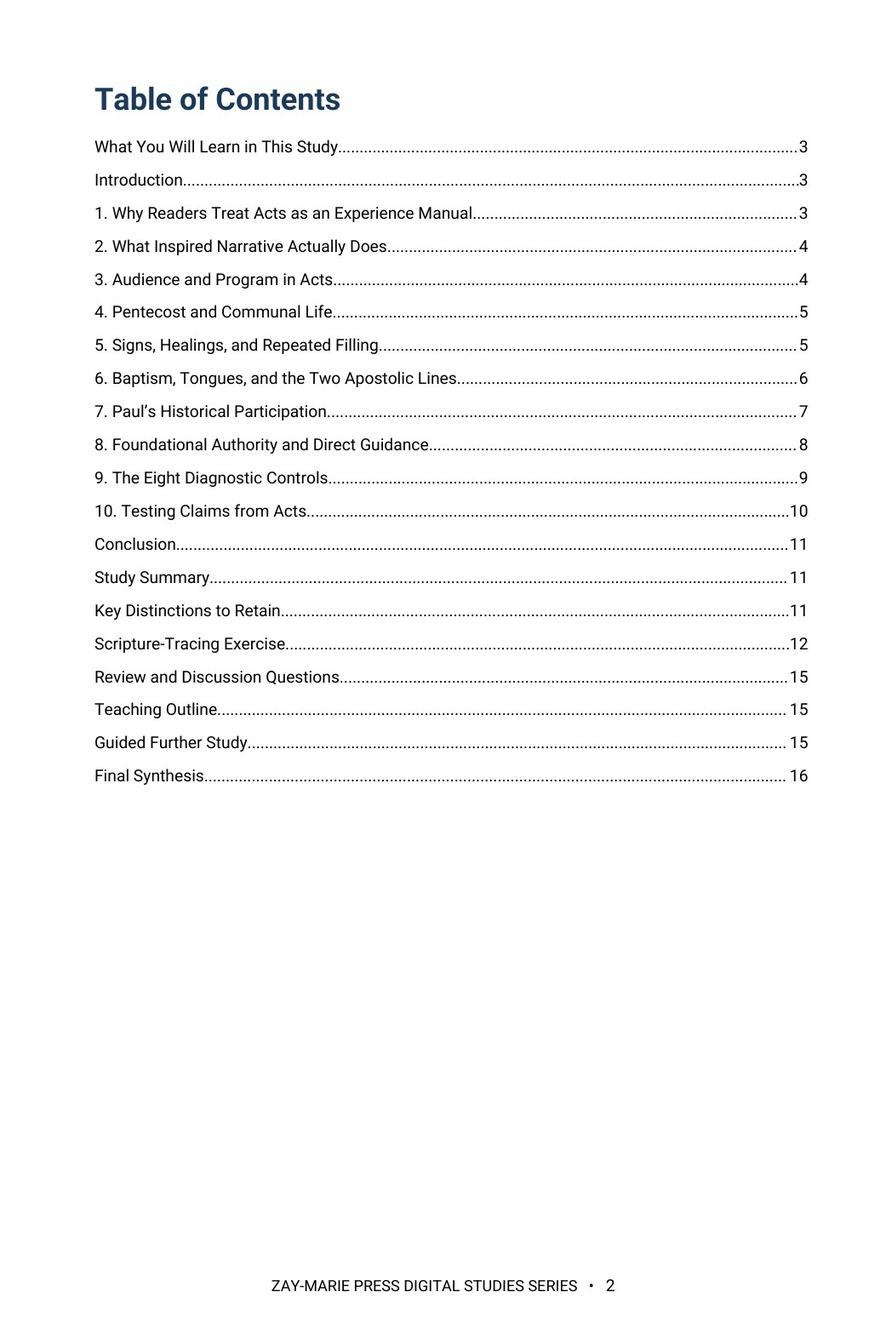
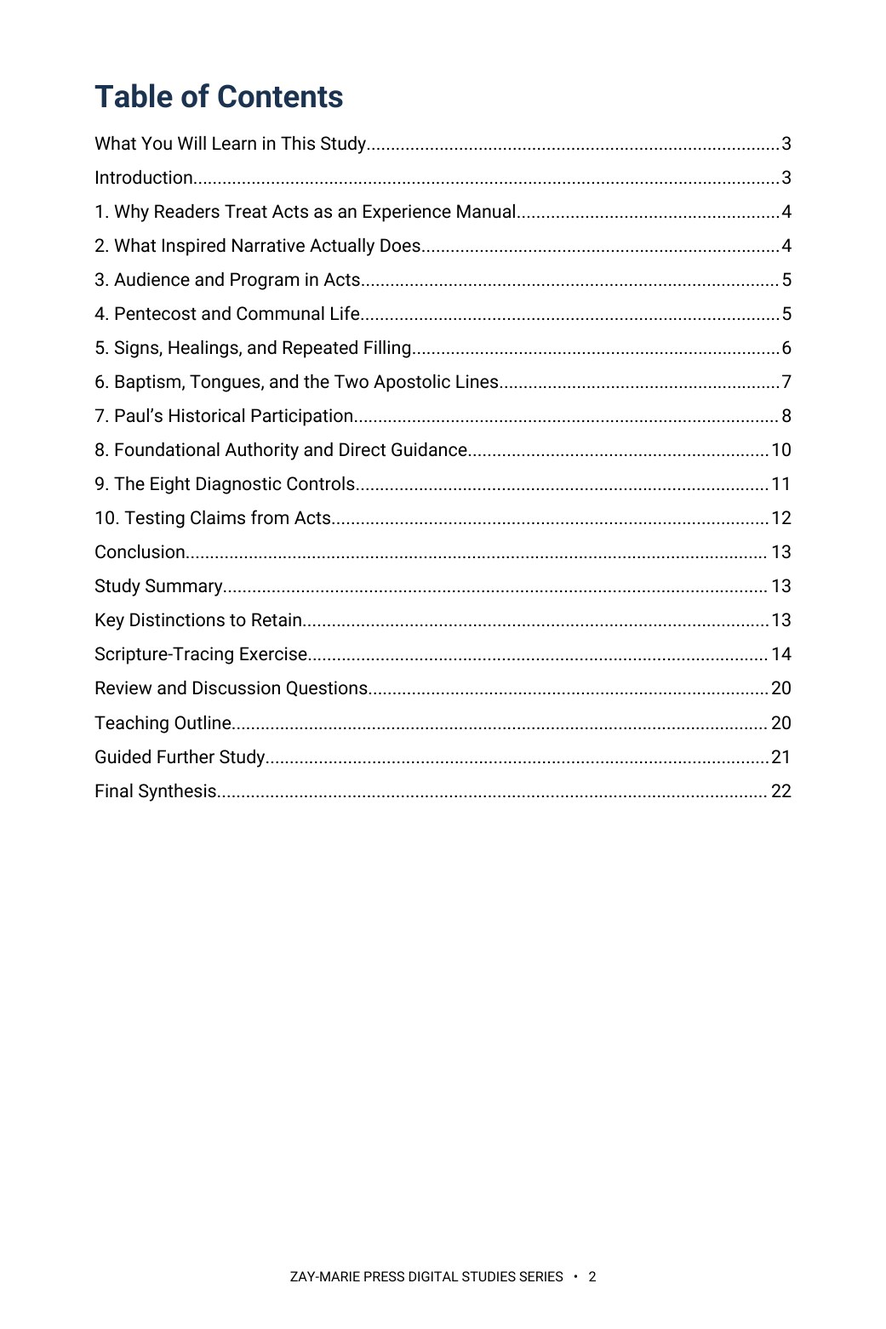
Study 38: page count 22, rebuilt preview pages and trackers for Roboto 10 pt build on current page
Claude-Session: https://claude.ai/code/session_01HC7bs9KYP2scp4hCL6DkTp

diff --git a/study-38-why-acts-is-not-a-universal-experience-manual.html b/study-38-why-acts-is-not-a-universal-experience-manual.html
@@ -2,13 +2,13 @@
 <html lang="en"><head><meta charset="utf-8"><meta name="viewport" content="width=device-width,initial-scale=1"><title>Why Acts Is Not a Universal Experience Manual | Zay-Marie Press</title><meta name="description" content="Read Acts with attention to audience, apostolic authority, and the governing doctrine for the Body of Christ. Preview Study 38 from Zay-Marie Press."><link rel="stylesheet" href="styles.css?v=20260921-4"><link rel="icon" type="image/png" href="assets/zay-marie-press-favicon.png"><style>
 .study-detail-page{background:#fff;color:#252525}.detail-hero{background:linear-gradient(135deg,#f8f5ec,#e3ece2);padding:58px 0}.detail-hero-grid{display:grid;grid-template-columns:minmax(250px,.72fr) minmax(0,1.28fr);gap:58px;align-items:center}.detail-cover{max-width:390px;margin:auto}.detail-cover img{display:block;width:100%;height:auto;box-shadow:0 14px 36px rgba(8,45,69,.18)}.detail-hero h1{font-size:clamp(2.7rem,5vw,4.7rem);line-height:1.02;margin:8px 0 10px;color:#143823}.detail-subtitle{font-family:Georgia,serif;font-size:1.35rem;font-weight:700;color:#082d45;margin:0 0 7px}.detail-kicker{font-family:Georgia,serif;font-style:italic;font-size:1.05rem;color:#4a4a44;margin:0 0 22px}.detail-copy{font-size:1.08rem;line-height:1.65;max-width:760px}.detail-buyline{display:flex;align-items:center;gap:18px;flex-wrap:wrap;margin-top:25px}.detail-price{font-family:Georgia,serif;font-size:2rem;font-weight:700;color:#143823}.detail-format,.preview-card .page-no{font-family:Arial,sans-serif;font-size:.76rem;font-weight:700;letter-spacing:.1em;text-transform:uppercase;color:#176b3a}.detail-button{display:inline-block;background:#176b3a;color:#fff;padding:13px 22px;font-family:Arial,sans-serif;font-size:.8rem;font-weight:700;letter-spacing:.07em;text-transform:uppercase}.detail-button.pending{opacity:.72;cursor:default}.detail-section{padding:66px 0}.detail-section.soft{background:#f6f7f2}.detail-section.cream{background:#faf8f2}.detail-section h2{color:#143823;margin:6px 0 18px;font-size:clamp(2rem,3.4vw,3rem)}.detail-section .lead{max-width:920px;font-size:1.1rem;line-height:1.62}.study-distinction{max-width:920px;margin-top:28px;margin-bottom:28px;padding:26px 28px;background:#fff;border:1px solid #d8d1bf;border-left:4px solid #b8871c}.study-distinction h3{margin:0 0 10px;color:#143823}.study-distinction p{margin:0 0 14px;line-height:1.62}.study-distinction a{font-family:Arial,sans-serif;font-weight:700;color:#176b3a;text-decoration:none}.study-points{display:grid;grid-template-columns:repeat(3,1fr);gap:18px;margin-top:28px;margin-bottom:28px}.study-point,.scripture-card,.preview-card,.include-item{background:#fff;border:1px solid var(--line);text-align:left}.study-point{border-top:3px solid #176b3a;padding:22px}.study-point h3{color:#143823;margin:0 0 8px;font-size:1.2rem}.study-point p,.scripture-card p,.preview-card p,.include-item p{margin:0;line-height:1.55}.scripture-grid{display:grid;grid-template-columns:repeat(4,1fr);gap:14px;margin-top:24px;margin-bottom:24px}.scripture-card{padding:22px 20px;color:#143823}.scripture-card h3{margin:0 0 9px;font-family:Georgia,serif;font-size:1rem;line-height:1.35}.scripture-card p{font-size:.94rem;color:#45453f}.excerpt{max-width:900px;margin:28px auto;border-left:4px solid #b8871c;padding:10px 0 10px 28px}.excerpt blockquote{font-family:Georgia,serif;font-size:clamp(1.45rem,2.5vw,2rem);line-height:1.45;color:#143823;margin:0 0 16px}.excerpt p{line-height:1.6;margin:0}.preview-grid{display:grid;grid-template-columns:repeat(2,1fr);gap:20px;margin-top:28px;margin-bottom:28px}.preview-card{padding:18px;min-height:210px;box-shadow:0 7px 20px rgba(20,40,25,.05)}.preview-image-link{display:block;margin:0 0 18px}.preview-image-link img{display:block;width:100%;height:auto;border:1px solid #d8d1bf;box-shadow:0 8px 22px rgba(20,40,25,.1);transition:transform .18s ease,box-shadow .18s ease}.preview-image-link:hover img{transform:translateY(-2px);box-shadow:0 11px 28px rgba(20,40,25,.16)}.preview-card h3{color:#143823;margin:8px 0 10px}.preview-instruction{margin:10px 0 0;font-family:Arial,sans-serif;font-size:.78rem;letter-spacing:.04em;color:#5b5b55}.includes-grid{display:grid;grid-template-columns:repeat(4,1fr);gap:14px;margin-top:26px}.include-item{padding:22px 20px;color:#143823}.include-item h3{margin:0 0 9px;font-family:Arial,sans-serif;font-size:.86rem;line-height:1.35;letter-spacing:.02em}.include-item p{font-size:.94rem;color:#45453f}.final-buy{background:#082d45;color:#fff;border-top:4px solid #b8871c;padding:42px 48px;display:grid;grid-template-columns:1fr auto;gap:36px;align-items:center}.final-buy .eyebrow,.final-buy h2,.final-buy .detail-price{color:#fff}.final-buy h2{margin:7px 0 6px}.final-buy p{margin:0}.final-offer{text-align:center}.back-link{display:inline-block;margin-top:18px;color:#143823;font-family:Arial,sans-serif;font-weight:700;text-decoration:none}.preview-lightbox{position:fixed;inset:0;z-index:10000;display:none;align-items:flex-start;justify-content:center;background:rgba(8,22,16,.88);padding:24px;overflow:auto}.preview-lightbox.open{display:flex}.preview-lightbox img{display:block;width:auto;height:auto;max-width:none;box-shadow:0 18px 55px rgba(0,0,0,.4);background:#fff}.preview-lightbox-close{position:fixed;top:18px;right:24px;z-index:10001;width:46px;height:46px;border:1px solid rgba(255,255,255,.65);border-radius:50%;background:rgba(0,0,0,.55);color:#fff;font:32px/1 Arial,sans-serif;cursor:pointer}@media(max-width:900px){.detail-hero-grid{grid-template-columns:1fr;gap:34px}.detail-cover{max-width:330px}.study-points{grid-template-columns:repeat(2,1fr)}.scripture-grid,.includes-grid{grid-template-columns:repeat(2,1fr)}.preview-grid,.final-buy{grid-template-columns:1fr}.final-offer{text-align:left}}@media(max-width:560px){.detail-hero{padding:42px 0}.detail-section{padding:50px 0}.study-points,.scripture-grid,.includes-grid{grid-template-columns:1fr}.final-buy{padding:32px 24px}.detail-buyline{align-items:flex-start;flex-direction:column;gap:8px}.preview-lightbox{padding:58px 10px 24px}.preview-lightbox img{width:100%;max-width:100%;height:auto}}</style></head><body class="study-detail-page">
 <header class="site-header"><div class="wrap nav"><a class="logo" href="index.html" aria-label="Zay-Marie Press home"><img src="assets/zay-marie-press-logo-hq.png" alt="Zay-Marie Press" width="420" height="238"></a><button class="menu-toggle" type="button" aria-expanded="false" aria-controls="primary-nav">MENU</button><nav aria-label="Primary navigation" class="primary-nav" id="primary-nav"><a href="index.html">HOME</a><a href="books.html">BOOKS</a><a href="series.html">SERIES</a><a class="active" aria-current="page" href="digital-studies.html">DIGITAL STUDIES</a><a href="biblical-hermeneutics-course.html">COURSE</a><a href="about.html">ABOUT</a><a href="resources.html">RESOURCES</a><a href="contact.html">CONTACT</a></nav></div></header><main>
-<section class="detail-hero"><div class="wrap detail-hero-grid"><div class="detail-cover"><picture><source srcset="assets/study-38-cover.webp" type="image/webp"><img src="assets/study-38-cover.jpg" alt="Why Acts Is Not a Universal Experience Manual cover"></picture></div><div><div class="eyebrow">STUDY 38 · DIGITAL STUDY</div><h1>Why Acts Is Not a Universal Experience Manual</h1><p class="detail-subtitle">Narrative Events, Apostolic Authority, and Present Governing Doctrine</p><p class="detail-kicker">A method for reading inspired history without turning every event into a command</p><p class="detail-copy">Acts records real events under divine direction. Yet the occurrence of a sign, a communal practice, or an apostolic action does not by itself require every believer to repeat it.</p><p class="detail-copy">Study the audience, commission, stated purpose, and programmatic setting of the event. Then test present obligations against the governing instruction given to the Body of Christ through Paul.</p><div class="detail-buyline"><span class="detail-price">$5.99</span><span class="detail-format">Digital PDF · 16 Pages</span><span class="detail-button pending" aria-disabled="true">Checkout Coming Soon</span></div></div></div></section>
+<section class="detail-hero"><div class="wrap detail-hero-grid"><div class="detail-cover"><picture><source srcset="assets/study-38-cover.webp" type="image/webp"><img src="assets/study-38-cover.jpg" alt="Why Acts Is Not a Universal Experience Manual cover"></picture></div><div><div class="eyebrow">STUDY 38 · DIGITAL STUDY</div><h1>Why Acts Is Not a Universal Experience Manual</h1><p class="detail-subtitle">Narrative Events, Apostolic Authority, and Present Governing Doctrine</p><p class="detail-kicker">A method for reading inspired history without turning every event into a command</p><p class="detail-copy">Acts records real events under divine direction. Yet the occurrence of a sign, a communal practice, or an apostolic action does not by itself require every believer to repeat it.</p><p class="detail-copy">Study the audience, commission, stated purpose, and programmatic setting of the event. Then test present obligations against the governing instruction given to the Body of Christ through Paul.</p><div class="detail-buyline"><span class="detail-price">$5.99</span><span class="detail-format">Digital PDF · 22 Pages</span><span class="detail-button pending" aria-disabled="true">Checkout Coming Soon</span></div></div></div></section>
 <section class="detail-section"><div class="wrap"><div class="eyebrow">ABOUT THIS STUDY</div><h2>When Does a Narrated Action Govern Us?</h2><p class="lead">Luke’s accounts are inspired and instructive, but their authority must be read according to what they say. Acts includes Israel’s continuing prophetic ministry and the Mystery revealed through Paul, with both present from Acts 9 through Acts 28.</p><p class="lead">This study gives a practical way to honor the history while deciding whether an action establishes a current obligation for the Body.</p><p class="lead">This is not a study of Peter’s Pentecost commands themselves, which Study 20 reads in their own audience, nor of Mark 16’s sign commission, which Study 25 examines on its own terms, nor of the apostles’ renewed Spirit filling, which Study 34 distinguishes from Pentecost. Its task is broader: to supply the actual test for deciding when any Acts-era event creates a present obligation for the Body, a test each of those studies then applies to its own passage.</p><div class="study-distinction"><h3>How These Studies Relate</h3><p>Study 38 asks when an action narrated in Acts is instructive history and when it establishes a present obligation for the Body.</p><p><a href="study-20-understanding-acts-2-38.html">Study 20 — Understanding Acts 2:38</a> Apply the test to Peter’s commands at Pentecost, where audience and prophetic context control how Acts 2:38 is read.</p><p><a href="study-25-the-signs-that-followed.html">Study 25 — The Signs That Followed</a> Apply it to Mark 16’s sign commission and its recorded effects, so a narrated sign is not assumed to bind every believer.</p><p><a href="study-34-filled-again.html">Study 34 — Filled Again</a> Apply it to the apostles’ renewed Spirit filling, distinguishing what Acts reports from a required sequence for all readers.</p><p><a href="study-39-the-churchs-relationship-to-israels-scriptures.html">Study 39 — The Church’s Relationship to Israel’s Scriptures</a> Carry the same audience and assignment questions into Israel’s earlier Scriptures to move responsibly from original meaning to present application.</p><p class="connection-guide-link"><a href="study-connections.html#study-38">Explore the full connection guide for Study 38 →</a></p></div></div></section>
 <section class="detail-section soft"><div class="wrap"><div class="eyebrow">WHAT YOU’LL STUDY</div><h2>Read Each Event in Its Own Setting</h2><div class="study-points"><div class="study-point"><h3>Description and Command</h3><p>Ask what Luke records and whether the passage gives its audience a repeatable instruction.</p></div><div class="study-point"><h3>Acts Overlap</h3><p>Follow Israel’s continuing Prophecy Program alongside the Mystery Program begun with Paul in Acts 9.</p></div><div class="study-point"><h3>Audience and Commission</h3><p>Keep Peter’s commission to Israel and Paul’s commission to the Body distinct even when their ministries appear in the same book.</p></div><div class="study-point"><h3>Signs and the Spirit</h3><p>Test tongues, healing, repeated filling, and Spirit reception against each event’s stated purpose and context.</p></div><div class="study-point"><h3>Paul’s Participation</h3><p>Read Paul’s visits, vows, and temple actions as history before assigning a present obligation.</p></div><div class="study-point"><h3>Present Doctrine</h3><p>Check proposed obligations against the instruction given to the Body through Paul.</p></div></div></div></section>
 <section class="detail-section cream"><div class="wrap"><div class="eyebrow">KEY SCRIPTURES</div><h2>Test Narrative Claims Against the Text</h2><div class="scripture-grid"><div class="scripture-card"><h3>Acts 2–5</h3><p>Read Pentecost, shared possessions, and apostolic judgment in the setting Luke names.</p></div><div class="scripture-card"><h3>Acts 9</h3><p>Paul’s calling marks the beginning of the Mystery Program while Israel’s prophetic activity continues.</p></div><div class="scripture-card"><h3>Acts 10 and 19</h3><p>Compare Spirit reception in distinct audiences and circumstances without imposing a single sequence.</p></div><div class="scripture-card"><h3>Acts 15</h3><p>Examine the Jerusalem Council’s ruling, its audience, and Paul’s commission.</p></div><div class="scripture-card"><h3>Acts 21 and 28</h3><p>Place Paul’s historical conduct and Israel’s response within the ongoing Acts chronology.</p></div><div class="scripture-card"><h3>1 Corinthians 12:27–30</h3><p>Paul’s questions about gifts test claims that every member must manifest the same sign.</p></div><div class="scripture-card"><h3>Ephesians 3:1–9</h3><p>The Mystery revealed through Paul clarifies the Body’s distinct calling.</p></div><div class="scripture-card"><h3>2 Timothy 2:15</h3><p>Right division guides the reader in assigning instruction to its proper audience.</p></div></div></div></section>
 <section class="detail-section"><div class="wrap"><div class="eyebrow">FROM THE STUDY</div><h2>Historical Participation and Present Obligation</h2><div class="excerpt"><blockquote>“Historical participation does not automatically create doctrinal obligation.”</blockquote><p>Paul’s actions must be read alongside his explicit instruction to the Body before a reader claims that those actions establish a universal rule.</p></div></div></section>
-<section class="detail-section soft"><div class="wrap"><div class="eyebrow">A LOOK INSIDE</div><h2>Preview the Study Before You Purchase</h2><p class="preview-instruction">Click any page to enlarge it for reading.</p><div class="preview-grid"><div class="preview-card"><a class="preview-image-link" data-preview-lightbox href="assets/study-38-page-2.jpg"><img src="assets/study-38-page-2.jpg" alt="Study 38 interior preview — page 2, table of contents"></a><div class="page-no">Page 2</div><h3>Table of Contents</h3><p>See the full structure of the study, from the introduction through the final synthesis.</p></div><div class="preview-card"><a class="preview-image-link" data-preview-lightbox href="assets/study-38-page-3.jpg"><img src="assets/study-38-page-3.jpg" alt="Study 38 interior preview — page 3, what you will learn"></a><div class="page-no">Page 3</div><h3>What You Will Learn</h3><p>Start with the study goal, outline, and the questions governing the reading of Acts.</p></div><div class="preview-card"><a class="preview-image-link" data-preview-lightbox href="assets/study-38-page-5.jpg"><img src="assets/study-38-page-5.jpg" alt="Study 38 interior preview — page 5, Pentecost and communal life"></a><div class="page-no">Page 5</div><h3>Pentecost and Communal Life</h3><p>See how a single event in Acts is tested by its audience, setting and stated purpose.</p></div></div></div></section>
+<section class="detail-section soft"><div class="wrap"><div class="eyebrow">A LOOK INSIDE</div><h2>Preview the Study Before You Purchase</h2><p class="preview-instruction">Click any page to enlarge it for reading.</p><div class="preview-grid"><div class="preview-card"><a class="preview-image-link" data-preview-lightbox href="assets/study-38-page-2.jpg"><img src="assets/study-38-page-2.jpg" alt="Study 38 interior preview — page 2, table of contents"></a><div class="page-no">Page 2</div><h3>Table of Contents</h3><p>See the full structure of the study, from the introduction through the final synthesis.</p></div><div class="preview-card"><a class="preview-image-link" data-preview-lightbox href="assets/study-38-page-3.jpg"><img src="assets/study-38-page-3.jpg" alt="Study 38 interior preview — page 3, what you will learn"></a><div class="page-no">Page 3</div><h3>What You Will Learn</h3><p>Start with the study goal, outline, and the questions governing the reading of Acts.</p></div><div class="preview-card"><a class="preview-image-link" data-preview-lightbox href="assets/study-38-page-5.jpg"><img src="assets/study-38-page-5.jpg" alt="Study 38 interior preview — page 5, audience and program in Acts and the opening of Pentecost"></a><div class="page-no">Page 5</div><h3>Audience and Program in Acts</h3><p>See how a single event in Acts is tested by its audience, setting and stated purpose.</p></div></div></div></section>
 <section class="detail-section"><div class="wrap"><div class="eyebrow">WHAT’S INCLUDED</div><h2>A Focused Study for<br>Responsible Interpretation and Application</h2><div class="includes-grid"><div class="include-item"><h3>Focused Biblical Study</h3><p>A sustained interpretive examination of Acts and the authority of its narrated events.</p></div><div class="include-item"><h3>Diagnostic Controls</h3><p>Eight checks for distinguishing historical description, apostolic action, and present doctrine.</p></div><div class="include-item"><h3>Worked Comparisons</h3><p>Apply the method to Pentecost, communal sharing, Spirit reception, the council, and Paul’s conduct.</p></div><div class="include-item"><h3>Claim Testing</h3><p>Assess common universal claims from Acts alongside the actual textual evidence.</p></div><div class="include-item"><h3>Study Outline</h3><p>A structured route through audiences, commissions, events, and governing instruction.</p></div><div class="include-item"><h3>Scripture References</h3><p>Trace the relevant passages in Acts and Pauline letters with context in view.</p></div><div class="include-item"><h3>Reflection Questions</h3><p>Practice the method on contested claims and clarify responsible present application.</p></div><div class="include-item"><h3>Digital PDF</h3><p>Sixteen pages including the cover, formatted for reading and personal study.</p></div></div></div></section>
-<section class="detail-section cream"><div class="wrap"><div class="final-buy"><div><div class="eyebrow">STUDY 38 · DIGITAL STUDY</div><h2>Why Acts Is Not a Universal Experience Manual</h2><p>Digital PDF · 16 Pages · For personal use</p></div><div class="final-offer"><div class="detail-price">$5.99</div><span class="detail-button pending" aria-disabled="true">Checkout Coming Soon</span></div></div><a class="back-link" href="digital-studies.html">← Back to All Digital Studies</a></div></section><section class="study-method-course-bridge"><div class="wrap"><div class="study-method-course-panel"><div><div class="eyebrow">BUILD THE INTERPRETIVE METHOD</div><h2>Want More Than a Focused Study?</h2><p>Digital Studies examine particular biblical subjects and difficult passages. The 40-lesson Biblical Hermeneutics course teaches a complete, repeatable method for establishing meaning in context, determining proper assignment, and making responsible application.</p></div><a class="btn btn-primary" href="biblical-hermeneutics-course.html">BIBLICAL HERMENEUTICS COURSE</a></div></div></section>
+<section class="detail-section cream"><div class="wrap"><div class="final-buy"><div><div class="eyebrow">STUDY 38 · DIGITAL STUDY</div><h2>Why Acts Is Not a Universal Experience Manual</h2><p>Digital PDF · 22 Pages · For personal use</p></div><div class="final-offer"><div class="detail-price">$5.99</div><span class="detail-button pending" aria-disabled="true">Checkout Coming Soon</span></div></div><a class="back-link" href="digital-studies.html">← Back to All Digital Studies</a></div></section><section class="study-method-course-bridge"><div class="wrap"><div class="study-method-course-panel"><div><div class="eyebrow">BUILD THE INTERPRETIVE METHOD</div><h2>Want More Than a Focused Study?</h2><p>Digital Studies examine particular biblical subjects and difficult passages. The 40-lesson Biblical Hermeneutics course teaches a complete, repeatable method for establishing meaning in context, determining proper assignment, and making responsible application.</p></div><a class="btn btn-primary" href="biblical-hermeneutics-course.html">BIBLICAL HERMENEUTICS COURSE</a></div></div></section>
 </main>
 <div class="preview-lightbox" id="preview-lightbox" role="dialog" aria-modal="true" aria-label="Expanded study preview"><button class="preview-lightbox-close" type="button" aria-label="Close preview">×</button><img id="preview-lightbox-image" alt=""></div><footer class="site-footer"><div class="wrap footer-grid"><div class="footer-about"><h3>Zay-Marie Press</h3><p class="footer-tagline"><em>Where the Bible Means What It Says.</em></p><p>Zay-Marie Press is a Christian theological publisher dedicated to producing doctrinally precise, carefully structured biblical resources that equip pastors, teachers, and serious students with clarity, depth, and Scripture-anchored truth.</p><p><a href="https://zaymariepress.com">zaymariepress.com</a><br><a href="mailto:info@zaymariepress.com">info@zaymariepress.com</a></p></div><div class="footer-column"><h3>Explore</h3><div class="footer-links-stacked"><a href="books.html">Books</a><br><a href="series.html">Series</a><br><a href="biblical-hermeneutics-course.html">Course</a><br><a href="digital-studies.html">Digital Studies</a><br><a href="resources.html">Resources</a><br><a href="bible-book-summaries.html">Bible Book Summaries</a><br><a href="doctrinal-packets.html">Doctrinal Packets</a><br><a href="historical-drift.html">Historical Drift</a><br><a href="about.html">About</a><br><a href="contact.html">Contact</a></div></div><div class="footer-column"><h3>Reader Support</h3><div class="footer-links-stacked"><a href="reader-support.html#faq">FAQ</a><br><a href="reader-support.html#shipping-returns">Shipping &amp; Returns</a><br><a href="reader-support.html#digital-downloads">Digital Downloads</a><br><a href="reader-support.html#contact-support">Contact Support</a></div></div><div class="footer-column"><h3>Acts Overlap</h3><p><strong>Acts Overlap Theology Series</strong></p><p><em>Two Distinct Streams. One Overlap.</em></p><p><a href="series.html">Series Overview</a></p></div></div><div class="wrap footer-bottom">© 2026 Zay-Marie Press. All rights reserved.</div></footer><script src="site.js"></script><script>const lightbox=document.getElementById('preview-lightbox'),lightboxImage=document.getElementById('preview-lightbox-image'),closeLightbox=()=>{lightbox.classList.remove('open');lightboxImage.src='';};document.querySelectorAll('[data-preview-lightbox]').forEach(link=>link.addEventListener('click',event=>{event.preventDefault();lightboxImage.src=link.href;lightboxImage.alt=link.querySelector('img').alt;lightbox.classList.add('open');}));document.querySelector('.preview-lightbox-close').addEventListener('click',closeLightbox);lightbox.addEventListener('click',event=>{if(event.target===lightbox)closeLightbox();});document.addEventListener('keydown',event=>{if(event.key==='Escape')closeLightbox();});</script></body></html>

diff --git a/site.js b/site.js
@@ -62,7 +62,7 @@ const resourceModal=document.querySelector('#resource-modal'), resourceModalTitl
 if(resourceModal&&resourceModalTriggers.length){const closeResourceModal=()=>{resourceModal.hidden=true;document.body.classList.remove('resource-modal-open');lastResourceTrigger?.focus();};resourceModalTriggers.forEach(trigger=>trigger.addEventListener('click',()=>{lastResourceTrigger=trigger;if(resourceModalTitle)resourceModalTitle.textContent=trigger.dataset.title||'Resource';if(resourceModalDescription)resourceModalDescription.textContent=trigger.dataset.description||'';if(resourceModalLink){resourceModalLink.href=trigger.dataset.href||'#';resourceModalLink.textContent=trigger.dataset.linkText||'OPEN RESOURCE';}resourceModal.hidden=false;document.body.classList.add('resource-modal-open');resourceModalClose?.focus();}));resourceModalClose?.addEventListener('click',closeResourceModal);resourceModal.addEventListener('click',e=>{if(e.target===resourceModal)closeResourceModal();});document.addEventListener('keydown',e=>{if(e.key==='Escape'&&!resourceModal.hidden)closeResourceModal();});}
 
 /* Display the verified final-PDF page count at the primary purchase decision point. */
-const digitalStudyPageCounts={1:17,2:19,3:16,4:17,5:15,6:15,7:14,8:13,9:15,10:20,11:15,12:15,13:18,14:15,15:15,16:16,17:17,18:18,19:16,20:15,21:16,22:15,23:14,24:16,25:17,26:16,27:16,28:17,29:19,30:18,31:18,32:19,33:18,34:20,35:22,36:20,37:21,38:16,39:16,40:16,41:16,42:17,43:17,44:19,45:19,46:20,47:19,48:18,49:20,50:19,51:20,52:19,53:19,54:17,55:20,56:20,57:20,58:19,59:20,60:15,61:16,62:18,63:17,64:17,65:16,66:16,67:17,68:16,69:17,70:17,71:16};
+const digitalStudyPageCounts={1:17,2:19,3:16,4:17,5:15,6:15,7:14,8:13,9:15,10:20,11:15,12:15,13:18,14:15,15:15,16:16,17:17,18:18,19:16,20:15,21:16,22:15,23:14,24:16,25:17,26:16,27:16,28:17,29:19,30:18,31:18,32:19,33:18,34:20,35:22,36:20,37:21,38:22,39:16,40:16,41:16,42:17,43:17,44:19,45:19,46:20,47:19,48:18,49:20,50:19,51:20,52:19,53:19,54:17,55:20,56:20,57:20,58:19,59:20,60:15,61:16,62:18,63:17,64:17,65:16,66:16,67:17,68:16,69:17,70:17,71:16};
 const digitalStudyMatch=window.location.pathname.match(/\/study-(\d+)-/i);
 const digitalStudyFormat=document.querySelector('.detail-hero .detail-format');
 if(digitalStudyMatch&&digitalStudyFormat){const studyNumber=Number(digitalStudyMatch[1]),pageCount=digitalStudyPageCounts[studyNumber];if(pageCount)digitalStudyFormat.textContent=`Digital PDF · ${pageCount} Pages`;}

diff --git a/CLAUDE.md b/CLAUDE.md
@@ -23,7 +23,7 @@ These are kept in the repo at `controlling-documents/` and are the current versi
 - As of v1.50 (publisher directive, 2026-10-03), the **What You Will Learn in This Study** section is always bulleted, never set as running paragraphs, written into this file in the same pass (Master Standard Section 3 item 4, Section 6 structure line, Section 22): a list of bullet points, each describing one process, textual marker or interpretive discipline the reader will practice (Section 17 still governs what they may say); at most one short lead-in line may stand above the bullets (for example, “By the end of this study, you should be able to:”); the Study Goal callout and the Study Outline keep their own forms. It governs every new study and every study rebuilt or retrofitted from now on; earlier studies take it when reopened or when the publisher directs. In every study check (Step 1), report whether the section is bulleted. First applied to Study 43.
 **`controlling-documents/Digital_Studies_Relationship_Map_v1.39.md`** — records each study's distinct subject, its related studies, the eight priced six-study collections, the Paul's Missionary Journeys cross-reference map, and the five primary catalog categories (currently version 1.39, covers Studies 1–71; update it as new studies publish, bump the version number, rename the file to match, and log the change in its own version-history table — mirroring the Master Standard's `_vX.Y` filename convention). Check a proposed topic against it before recommending or writing a new study. (2026-09-28: the file was missing from this repo despite this note referencing it; replaced from the publisher's copy and bumped v1.15→v1.25 in the same pass. If this note ever again points to a version not present under `controlling-documents/`, ask the publisher for a copy rather than proceeding without the check.)
 - **`controlling-documents/Digital_Studies_Category_Standard_v1.1.md`** — FINAL and binding (publisher, 2026-10-01): the rules for the five primary catalog categories (Foundations, Israel & Prophecy, Body of Christ, Passages, Doctrinal Themes), the ordered decision procedure for new studies, the precedents, all 71 fixed assignments, and the cover-label form for each category. Read it before placing any card or cover label. Do not ask the publisher where a study belongs; apply the procedure and state the result. Only the publisher changes a ruling; then bump this Standard's version and filename, re-letter the cover, and update the Relationship Map.
-- **`controlling-documents/Doctrinal_Upgrade_Retrofit_Plan_v1.116.md`** — working tracker for retrofitting Studies 1–59 to the 2026-10-02 doctrinal upgrade (Framework/PAM v1.1, Master Standard v1.40, Rules 7–17): withdrawn-wording search keys, impact tiers, waves and the per-study method. Read it before continuing the retrofit in any session; update status, bump the version and rename the file as work proceeds.
+- **`controlling-documents/Doctrinal_Upgrade_Retrofit_Plan_v1.117.md`** — working tracker for retrofitting Studies 1–59 to the 2026-10-02 doctrinal upgrade (Framework/PAM v1.1, Master Standard v1.40, Rules 7–17): withdrawn-wording search keys, impact tiers, waves and the per-study method. Read it before continuing the retrofit in any session; update status, bump the version and rename the file as work proceeds.
 - **`controlling-documents/Doctrinal_Packet_Standard_v0.3.md`** — Doctrinal Packet Standard (DRAFT; §7 approved). Governs the separate Doctrinal Packets product strand (5-page interpretive PDFs per Bible book — a print-friendly cover as page 1 plus 4 content pages, $2.99, KJV, pilot: Genesis, live at `packet-genesis.html`, hub `doctrinal-packets.html`; site pages say "5 Pages", cover styles live in `packets.css`, Old Testament blue and New Testament soft pale green, hub listed in Bible order). **Preview rule (publisher directive, 2026-09-29, packets only):** previews show about one page's worth in two cropped views (top of page 1 through the anchor texts; the chart section) — never the exegesis, architecture, Mystery contrast, logic chain, outline, or closing. Master Standard §16/§17 still govern Digital Studies. Bump the version and rename the file as the Standard is finalized.
 - **`controlling-documents/Preview_Page_Spoiler_Retrofit_Audit_v1.4.md`** — working tracker for the Studies 1–60 preview-page conclusion-spoiler retrofit (see the section below). Read it before continuing that audit in any session; update its status fields and changelog, bump the version, and rename the file to match as the audit proceeds — same `_vX.Y` convention as the other controlling documents. As of v1.1, the website-side half was DONE: all 60 studies' "What You'll Study" text was judged against the rule (methodology documented in the file) and 22 points across 11 studies were rewritten and pushed; an unrelated Study 22 content bug (Study 21's content had leaked into it) was also found and fixed. As of v1.2, the publisher supplied Studies 1–60's interior production PDFs and the interior-PDF half was also surveyed (read-only): 10 studies (37, 41, 45, 47, 48, 49, 51, 52, 53, 54) were found to have at least one interior "What You Will Learn" violation, 50 studies were confirmed compliant, and the orphaned `assets/study-45-sanctification-under-grace.docx` (removed from the repo per the publisher in v1.0) was confirmed word-for-word identical to Study 45's actual production interior PDF content. As of v1.3, the publisher supplied editable DOCX sources for all 10 violating studies; all 15 violating points were rewritten and approved, delivered as corrected final PDFs, and — along the way — a second defect was found and fixed (Studies 47 and 48's source DOCX still had an unintegrated cover placeholder despite both being long-published live with real covers; fixed by inserting the existing approved cover art). The website's "What You Will Learn" preview image (`study-NN-page-3.jpg`) was regenerated from the corrected content for all 10 studies and pushed to `main` (commit `cea1859`), verified against a fresh clone. **The website side of this audit is now fully compliant for all 60 studies.** Outstanding: the publisher's purchasable interior PDF files themselves have corrected versions delivered, but distribution to existing purchasers was decided by the publisher on 2026-09-29: silent swap of the files behind the existing downloads, no reissue notice (recorded in the v1.4 changelog entry; the product files are not in this repo).
 

diff --git a/controlling-documents/Doctrinal_Upgrade_Retrofit_Plan_v1.117.md b/controlling-documents/Doctrinal_Upgrade_Retrofit_Plan_v1.117.md
@@ -209,3 +209,4 @@ Working tracker for correcting published studies to the Framework/PAM v1.1, Mast
 - v1.114 (2026-10-04): Study 35 rebuilt in Roboto at 10 pt on the current page, 22 pages (was 16 in the published PDF). The supplied FINAL DOCX was already on the new page in Roboto at 9 pt with typed bullets and numbers: rebuilt with real bullets (WYWL, Study Outline), real numbering (Review questions; Teaching Outline, whose Roman numerals were removed); 'The Olive Tree Firewall governs the reading:' replaced by 'Four boundaries govern the reading:' and the Romans 11 triad plus 'Identity is fixed by divine program, not by metaphor.' added; Acts 28 wording conformed with the suspension-boundary sentence. Overlap, Rule 17, Gal 3 and Gal 6:16 wording already conformed. This closes the Romans 11 depth item for Study 35.
 - v1.115 (2026-10-04): Study 36 rebuilt in Roboto at 10 pt on the current page, 20 pages (was 16 on the old 432×648 page at 8 pt). Romans 11 triad and 'Identity is fixed by divine program, not by metaphor.' added after the Romans 9–11 paragraph; Acts 28 wording conformed with the suspension-boundary sentence; 'the common ground of faith' (Romans 3:29–30 paragraph) replaced under Rule 19 (publisher-approved); WYWL, overlap, remnant/Body and Galatians 3 wording already conformed. Preview 3 moved from page 5 to page 6 (category table). Closes the Romans 11 depth item for Study 36.
 - v1.116 (2026-10-04): Study 37 rebuilt in Roboto at 10 pt on the current page, 21 pages (was 16 on the old 432×648 page at 8 pt). Withdrawn wording removed: Gal 6:16 'believing Jews within the Body—Israelites by identity' now 'believing Jews within Israel’s prophetic identity—not members of the Body'; the 'believing Jews are gathered into the Body … identity, not program membership' clarifiers (remnant paragraph and overlap paragraph) replaced by the standing Rule 17 and overlap sentences; Acts 28 'national judicial suspension point' conformed with the suspension-boundary sentence. Orphan imprint (page 21 alone) fixed with layout-only keep-with-next on Final Synthesis so it moves with the imprint; no text changed.
+- v1.117 (2026-10-04): Study 38 rebuilt in Roboto at 10 pt on the current page, 22 pages (was 16 on the old 432×648 page at 8 pt). WYWL running paragraphs replaced by the standard lead-in and six process bullets (publisher-approved, same words); 'read as the Framework assigns them' and two 'framework' phrases reworded; withdrawn 'believing Jews are gathered into the Body … identity, not program membership' replaced by the standing overlap sentence; Rule 17, Rule 18 short form, Rule 11 and Cornelius sentences added; Acts 28 wording conformed (body and Guided Further Study) with the suspension-boundary sentence; Teaching Outline numbered. Layout-only keep-with-next on Final Synthesis (imprint never alone). Preview 3 relabelled 'Audience and Program in Acts'.

diff --git a/controlling-documents/Digital_Studies_PAM_Audit_v1.211.md b/controlling-documents/Digital_Studies_PAM_Audit_v1.211.md
@@ -440,3 +440,4 @@ Study 15 PDF not yet supplied. Typography: none of Studies 2, 3, 6, 8 is in EB G
 - v1.208 (2026-10-04): Study 35 rebuilt in Roboto at 10 pt on the current page, 22 pages; internal 'Firewall' label removed; Romans 11 triad added; Acts 28 wording conformed; typed bullets and numbering made real (see Retrofit Plan v1.114).
 - v1.209 (2026-10-04): Study 36 rebuilt in Roboto at 10 pt on the current page, 20 pages; Romans 11 triad added; Acts 28 wording conformed; 'common ground of faith' replaced under Rule 19 (see Retrofit Plan v1.115).
 - v1.210 (2026-10-04): Study 37 rebuilt in Roboto at 10 pt on the current page, 21 pages; withdrawn Gal 6:16 and 'gathered into the Body' wording replaced with standing sentences; Acts 28 wording conformed (see Retrofit Plan v1.116).
+- v1.211 (2026-10-04): Study 38 rebuilt in Roboto at 10 pt on the current page, 22 pages; WYWL bulleted; Framework wording removed; withdrawn 'gathered into the Body' sentence replaced; Rule 17, 18, 11 and Cornelius sentences added; Acts 28 wording conformed (see Retrofit Plan v1.117).
